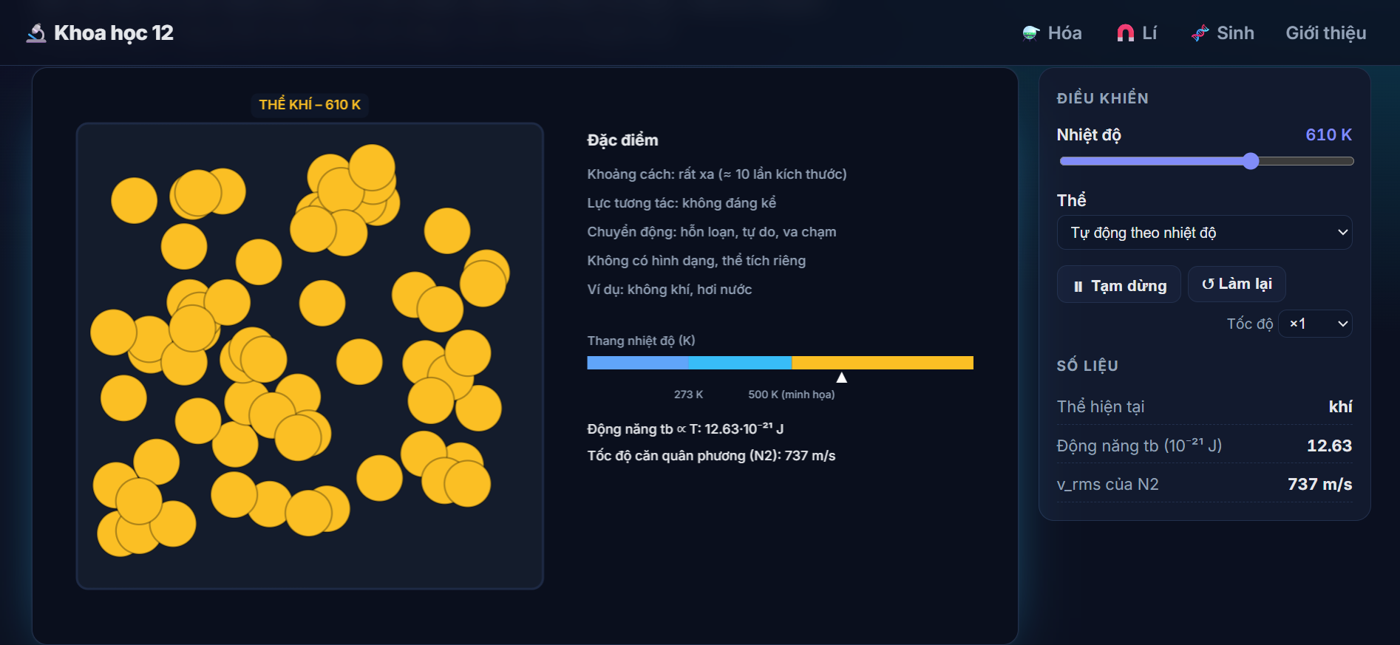
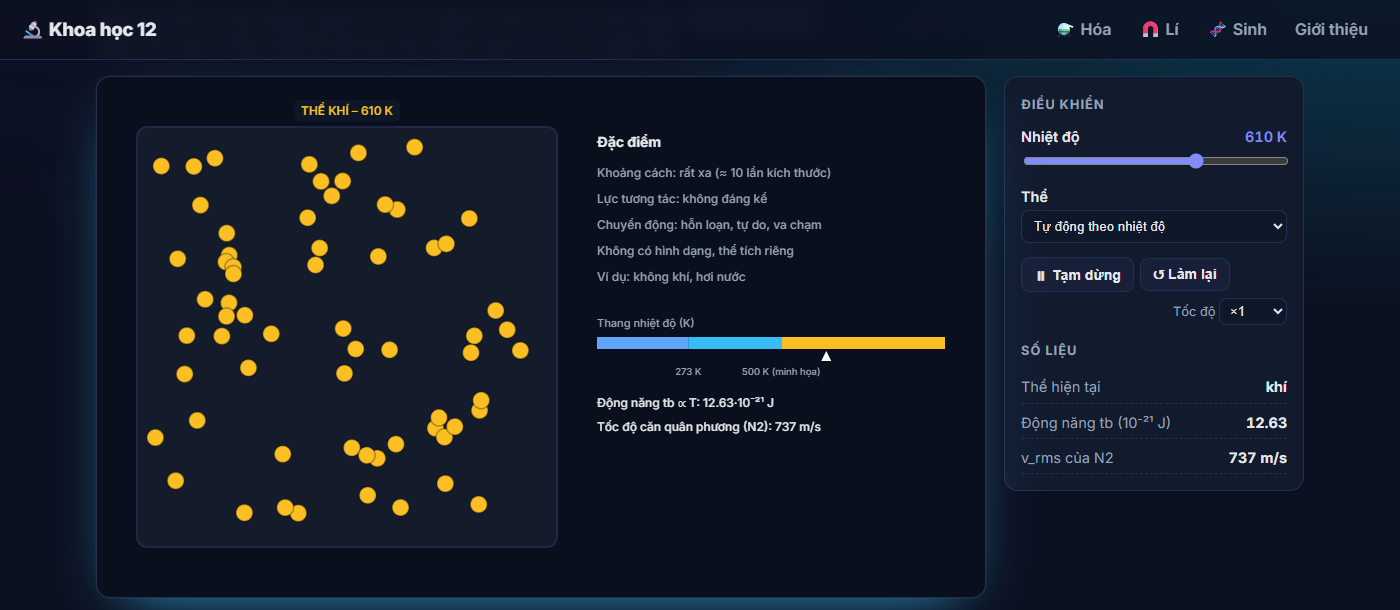
Fix sidebar chapter navigation; smaller gas molecules; shareable sim params
- Chapter links were ignored (wrong hash segment), so every click jumped to
  the top. Now all chapters stay listed and clicks scroll smoothly to the
  chosen chapter; the sidebar highlights the chapter in view.
- Kinetic model: gas molecules drawn smaller so spacing matches the text.
- #/sim/<id>?key=value presets slider/select values (used for screenshots).
- Physics label "Lý" -> "Lí" to match the menu; new screenshot in README.

diff --git a/web/js/app.js b/web/js/app.js
@@ -3,7 +3,7 @@ import { loadAllSims } from './core/registry.js';
 import { Runner, defaultParams } from './core/engine.js';
 import { el, buildControls, buildActions, renderMetrics, md, chem } from './core/ui.js';
 
-const state = { curriculum: null, sims: [], runner: null, ready: false, api: false };
+const state = { curriculum: null, sims: [], runner: null, ready: false, api: false, view: null, spy: null };
 
 // Có server Node (Render Web Service / chạy local) thì bật góp ý + thống kê; bản tĩnh thì tự tắt.
 const apiReady = fetch('/api/health', { cache: 'no-store' })
@@ -30,18 +30,40 @@ function chapterOf(sub, id) { return sub.chapters.find((c) => c.id === id); }
 function simsOf(subId, chapId) { return state.sims.filter((s) => s.subject === subId && (!chapId || s.chapter === chapId)); }
 
 function route() {
-  if (state.runner) { state.runner.destroy(); state.runner = null; }
-  const hash = location.hash.replace(/^#\/?/, '');
-  const [page, a, b] = hash.split('/');
+  // Hash dạng #/<trang>/<id>?<tham số>, ví dụ #/physics/ideal-gas hoặc #/sim/physics-boyle?V=1.5
+  const raw = location.hash.replace(/^#\/?/, '');
+  const [path, query = ''] = raw.split('?');
+  const [page, a] = path.split('/');
   document.querySelectorAll('.nav a').forEach((n) => n.classList.toggle('active', n.getAttribute('href') === '#/' + (page || '')));
+  const sub = subjectOf(page);
+  // Cùng một môn: chỉ cuộn tới chương, không vẽ lại trang
+  if (sub && state.view === 'subject:' + sub.id) return focusChapter(sub, a || null, true);
+  if (state.runner) { state.runner.destroy(); state.runner = null; }
+  if (state.spy) { state.spy.disconnect(); state.spy = null; }
+  state.view = null;
   window.scrollTo(0, 0);
   if (!page) return renderHome();
   if (page === 'about') return renderAbout();
-  if (page === 'sim' && a) return renderSim(a);
+  if (page === 'sim' && a) return renderSim(a, new URLSearchParams(query));
   if (page === 'search') return renderSearch(decodeURIComponent(a || ''));
-  const sub = subjectOf(page);
-  if (sub) return renderSubject(sub, b || null);
+  if (sub) { renderSubject(sub); return focusChapter(sub, a || null, false); }
   renderHome();
+}
+
+/** Tô sáng chương trên thanh bên và cuộn tới chương đó (hoặc lên đầu nếu chapId rỗng) */
+function focusChapter(sub, chapId, smooth) {
+  setActiveChapter(chapId);
+  state.spyLockUntil = Date.now() + (smooth ? 1200 : 300); // không để theo dõi cuộn ghi đè trong lúc đang cuộn
+  const behavior = smooth ? 'smooth' : 'auto';
+  requestAnimationFrame(() => {
+    const target = chapId && document.getElementById('chap-' + chapId);
+    if (target) target.scrollIntoView({ behavior, block: 'start' });
+    else window.scrollTo({ top: 0, behavior });
+  });
+}
+
+function setActiveChapter(chapId) {
+  document.querySelectorAll('.side-link').forEach((n) => n.classList.toggle('active', (n.dataset.chap || '') === (chapId || '')));
 }
 
 // ---------- Trang chủ ----------
@@ -91,26 +113,40 @@ function simCard(sim) {
 }
 
 // ---------- Trang môn học ----------
-function renderSubject(sub, chapId) {
+function renderSubject(sub) {
   const side = el('aside', { class: 'sidebar' },
     el('h3', {}, sub.icon + ' ' + sub.name),
-    el('a', { class: 'side-link' + (!chapId ? ' active' : ''), href: '#/' + sub.id }, 'Tất cả', el('span', { class: 'count' }, simsOf(sub.id).length)),
-    ...sub.chapters.map((c) => el('a', { class: 'side-link' + (chapId === c.id ? ' active' : ''), href: `#/${sub.id}/${c.id}` }, `${c.order}. ${c.title}`, el('span', { class: 'count' }, simsOf(sub.id, c.id).length)))
+    el('a', { class: 'side-link active', href: '#/' + sub.id, 'data-chap': '' }, 'Tất cả', el('span', { class: 'count' }, simsOf(sub.id).length)),
+    ...sub.chapters.map((c) => el('a', { class: 'side-link', href: `#/${sub.id}/${c.id}`, 'data-chap': c.id }, `${c.order}. ${c.title}`, el('span', { class: 'count' }, simsOf(sub.id, c.id).length)))
   );
-  const chapters = chapId ? sub.chapters.filter((c) => c.id === chapId) : sub.chapters;
+  const sections = sub.chapters.map((c) => {
+    const list = simsOf(sub.id, c.id);
+    if (!list.length) return null;
+    return el('section', { class: 'chapter', id: 'chap-' + c.id, 'data-chap': c.id },
+      el('h3', {}, `Chương ${c.order}. ${c.title}`),
+      el('div', { class: 'grid' }, list.map(simCard))
+    );
+  }).filter(Boolean);
   const main = el('div', { class: 'subject-main' },
-    el('h1', { style: `--c:${sub.color}` }, chapId ? chapterOf(sub, chapId).title : sub.name),
+    el('h1', { style: `--c:${sub.color}` }, sub.name),
     el('p', { class: 'lead' }, sub.tagline),
-    ...chapters.map((c) => {
-      const list = simsOf(sub.id, c.id);
-      if (!list.length) return null;
-      return el('section', { class: 'chapter' },
-        el('h3', {}, `Chương ${c.order}. ${c.title}`),
-        el('div', { class: 'grid' }, list.map(simCard))
-      );
-    })
+    ...sections
   );
   app.replaceChildren(el('div', { class: 'layout-side' }, side, main));
+  state.view = 'subject:' + sub.id;
+
+  // Khi người dùng tự cuộn: tô sáng chương đang nằm ở phần trên màn hình
+  if ('IntersectionObserver' in window) {
+    state.spy = new IntersectionObserver((entries) => {
+      if (Date.now() < (state.spyLockUntil || 0)) return;
+      const visible = entries.filter((e) => e.isIntersecting).sort((x, y) => x.boundingClientRect.top - y.boundingClientRect.top);
+      if (!visible.length) return;
+      const first = sections[0] && sections[0].dataset.chap;
+      const chap = visible[0].target.dataset.chap;
+      setActiveChapter(window.scrollY < 40 && chap === first ? '' : chap);
+    }, { rootMargin: '-80px 0px -60% 0px' });
+    sections.forEach((s) => state.spy.observe(s));
+  }
 }
 
 // ---------- Tìm kiếm ----------
@@ -126,7 +162,7 @@ function renderSearch(q) {
 }
 
 // ---------- Trang mô phỏng ----------
-function renderSim(id) {
+function renderSim(id, query = new URLSearchParams()) {
   const sim = state.sims.find((s) => s.id === id);
   if (!sim) { app.replaceChildren(el('h1', {}, 'Không tìm thấy mô phỏng'), el('a', { href: '#/' }, '← Trang chủ')); return; }
   const sub = subjectOf(sim.subject);
@@ -135,7 +171,7 @@ function renderSim(id) {
   const idx = list.indexOf(sim);
   const prev = list[idx - 1], next = list[idx + 1];
 
-  const params = defaultParams(sim);
+  const params = applyQuery(sim, defaultParams(sim), query);
   const canvas = el('canvas', { class: 'stage' });
   const metricsBox = el('div', { class: 'metrics' });
   const controls = buildControls(sim, params, (k, v) => state.runner && state.runner.setParam(k, v));
@@ -188,6 +224,19 @@ function renderSim(id) {
     if (acc % 6 !== 0 || !r.inst || !r.inst.metrics) return;
     renderMetrics(metricsBox, r.inst.metrics(r.params, r.time));
   });
+}
+
+/** Đặt sẵn tham số từ link, vd #/sim/physics-kinetic-model?temp=610 (bỏ qua giá trị không hợp lệ) */
+function applyQuery(sim, params, query) {
+  for (const spec of sim.params || []) {
+    if (!query.has(spec.key)) continue;
+    const raw = query.get(spec.key);
+    const type = spec.type || 'range';
+    if (type === 'range') { const v = Number(raw); if (Number.isFinite(v)) params[spec.key] = Math.min(spec.max, Math.max(spec.min, v)); }
+    else if (type === 'toggle') params[spec.key] = raw === '1' || raw === 'true';
+    else if (type === 'select') { const opt = spec.options.find((o) => String(o[0]) === raw); if (opt) params[spec.key] = opt[0]; }
+  }
+  return params;
 }
 
 function chemMd(t) { return md(t).replace(/\{\{(.+?)\}\}/g, (m, f) => chem(f)); }

diff --git a/web/js/sims/physics/kinetic-model.js b/web/js/sims/physics/kinetic-model.js
@@ -55,7 +55,8 @@ export default {
       draw(g, w, h, p, t) {
         const bx = 40, by = 50, bw = Math.min(420, w * 0.5), bh = h - 100;
         g.fillStyle = 'rgba(30,41,59,0.5)'; roundRect(g, bx, by, bw, bh, 10); g.fill(); g.strokeStyle = COLORS.grid; g.lineWidth = 2; g.stroke();
-        const r = Math.min(bw, bh) / 20;
+        // Thể khí: phân tử nhỏ so với khoảng cách giữa chúng (≈ 10 lần kích thước) nên vẽ bán kính nhỏ hơn
+        const r = Math.min(bw, bh) / 20 * (st.state === 'gas' ? 0.4 : 1);
         const col = st.state === 'solid' ? '#60a5fa' : st.state === 'liquid' ? '#38bdf8' : '#fbbf24';
         for (const q of st.p) circle(g, bx + 10 + q.x * (bw - 20 - 2 * r) + r, by + 10 + q.y * (bh - 20 - 2 * r) + r, r, col, 'rgba(0,0,0,0.3)');
         if (st.state === 'solid') for (let i = 0; i < st.p.length; i++) { const q = st.p[i]; if (i % 8 < 7) { const n = st.p[i + 1]; line(g, bx + 10 + q.x * (bw - 20 - 2 * r) + r, by + 10 + q.y * (bh - 20 - 2 * r) + r, bx + 10 + n.x * (bw - 20 - 2 * r) + r, by + 10 + n.y * (bh - 20 - 2 * r) + r, 'rgba(96,165,250,0.25)', 1); } }

diff --git a/web/css/style.css b/web/css/style.css
@@ -94,7 +94,9 @@ code { background: #1e293b; padding: 1px 6px; border-radius: 5px; font-size: .92
 .side-link:hover { background: var(--panel2); color: var(--text); }
 .side-link.active { background: var(--panel2); color: var(--text); font-weight: 700; }
 .count { font-size: .75rem; background: var(--bg2); padding: 1px 7px; border-radius: 999px; }
-.chapter { margin: 24px 0; }
+.chapter { margin: 24px 0; scroll-margin-top: 80px; }
+/* Chương cuối đủ cao để bấm vào vẫn cuộn được lên sát thanh tiêu đề */
+.subject-main .chapter:last-child { min-height: calc(100vh - 110px); }
 .chapter h3 { margin-bottom: 12px; }
 
 /* Sim page */
